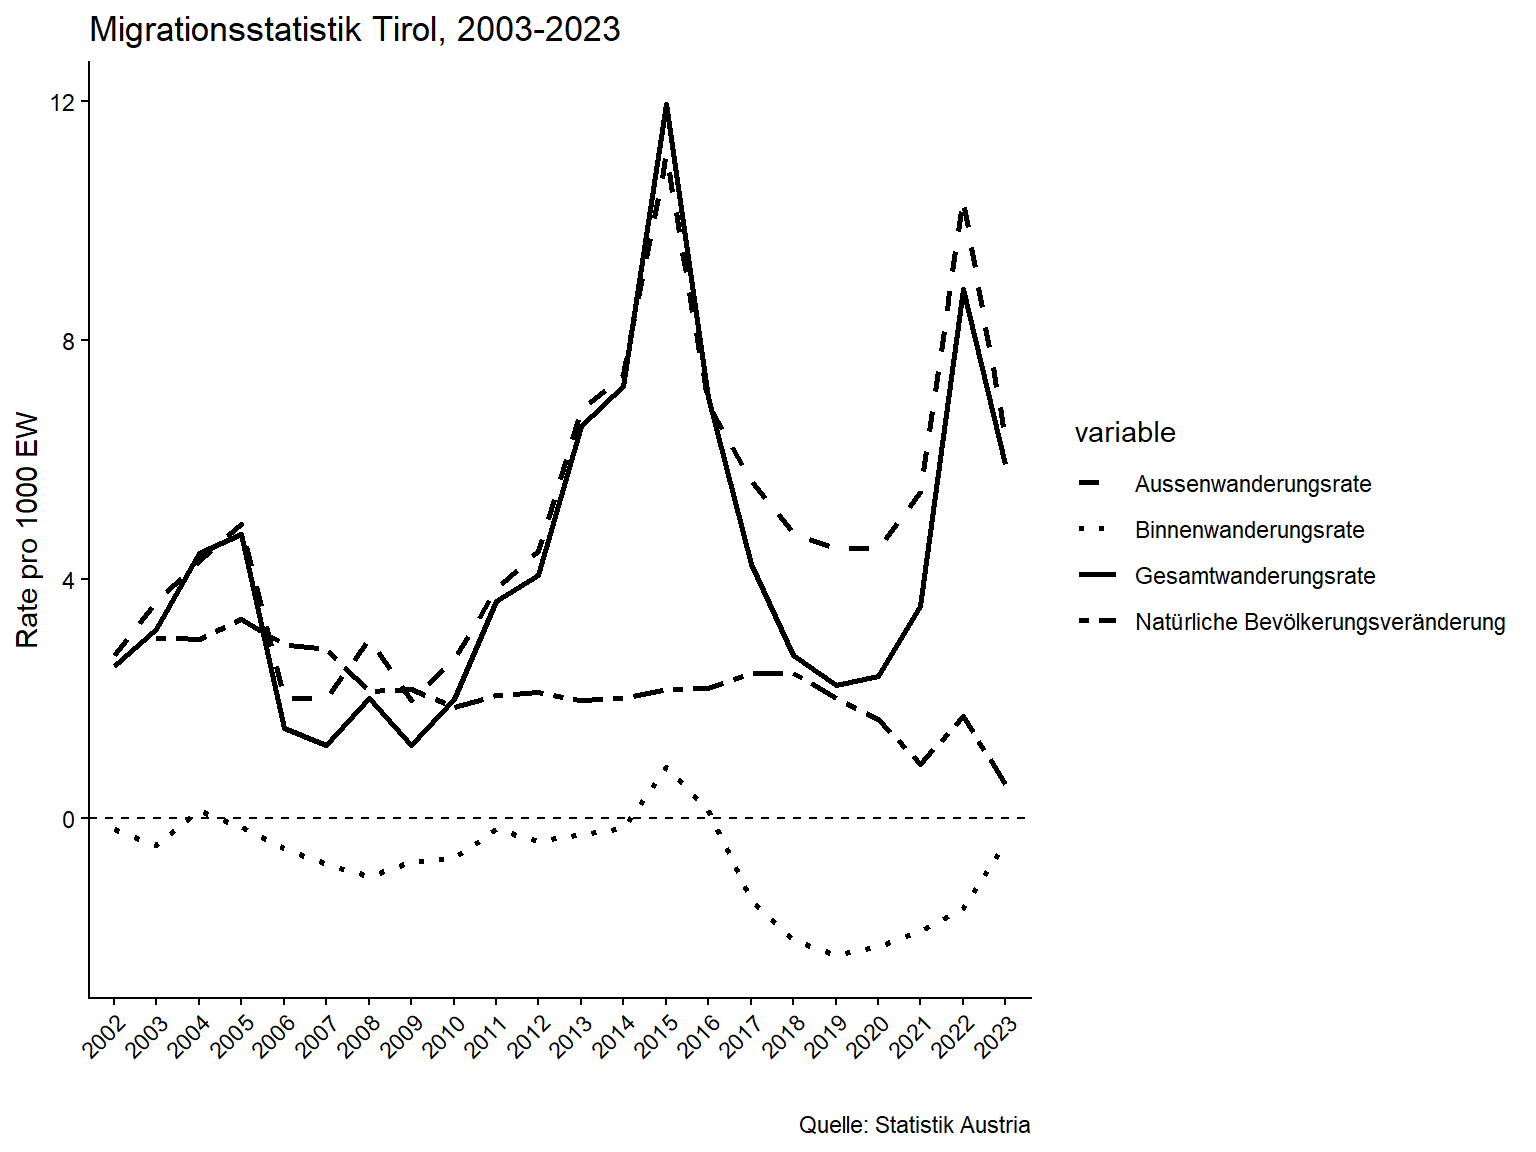
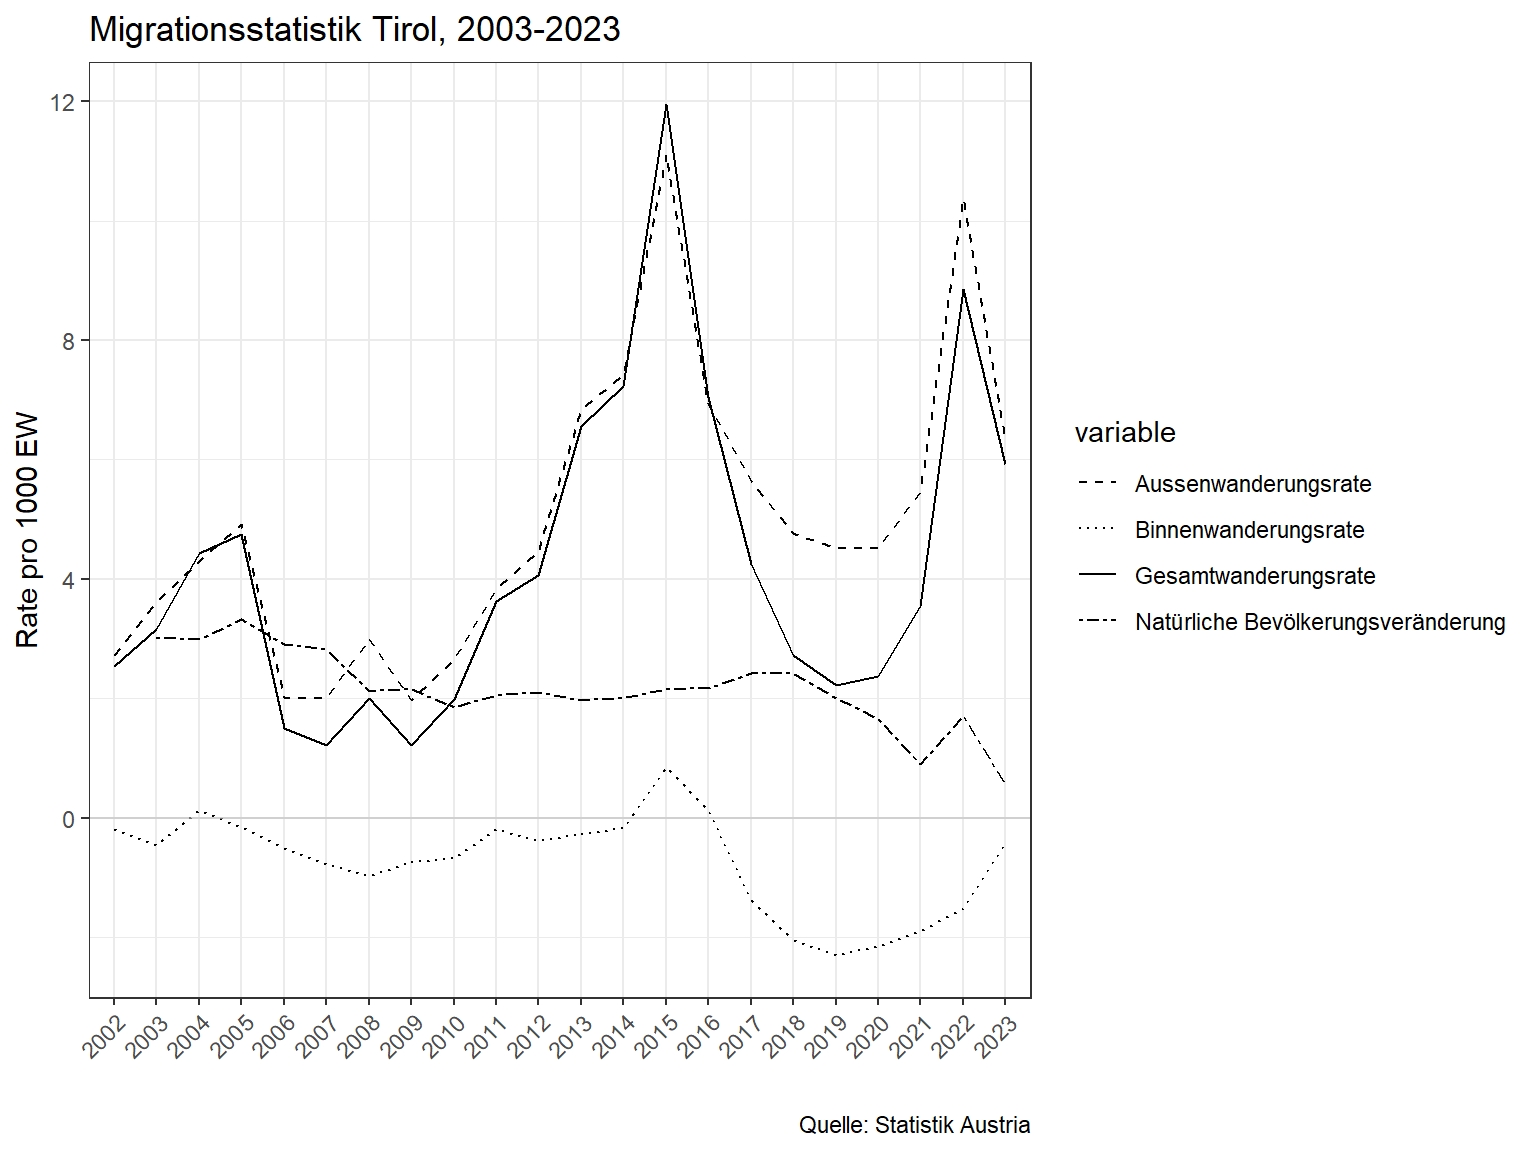
update

diff --git a/docs/02_data_manipulation.html b/docs/02_data_manipulation.html
@@ -658,8 +658,8 @@ window.Quarto = {
 </div>
 <div class="cell">
 <div class="code-copy-outer-scaffold"><div class="sourceCode cell-code" id="cb37"><pre class="sourceCode r code-with-copy"><code class="sourceCode r"><span id="cb37-1"><a href="#cb37-1" aria-hidden="true" tabindex="-1"></a><span class="fu">ggplot</span>(<span class="at">data =</span> rates_all <span class="sc">%&gt;%</span> <span class="fu">filter</span>(bld <span class="sc">==</span> <span class="st">"Tirol"</span>), <span class="fu">aes</span>(<span class="at">x =</span> <span class="fu">as.factor</span>(jahr), <span class="at">y =</span> value, <span class="at">linetype =</span> variable, <span class="at">group =</span> variable))<span class="sc">+</span></span>
-<span id="cb37-2"><a href="#cb37-2" aria-hidden="true" tabindex="-1"></a>  <span class="fu">geom_line</span>(<span class="at">linewidth =</span> <span class="dv">1</span>)<span class="sc">+</span></span>
-<span id="cb37-3"><a href="#cb37-3" aria-hidden="true" tabindex="-1"></a>  <span class="fu">theme_classic</span>()<span class="sc">+</span></span>
+<span id="cb37-2"><a href="#cb37-2" aria-hidden="true" tabindex="-1"></a>  <span class="fu">geom_line</span>()<span class="sc">+</span></span>
+<span id="cb37-3"><a href="#cb37-3" aria-hidden="true" tabindex="-1"></a>  <span class="fu">theme_bw</span>()<span class="sc">+</span></span>
 <span id="cb37-4"><a href="#cb37-4" aria-hidden="true" tabindex="-1"></a>  <span class="fu">scale_linetype_manual</span>(</span>
 <span id="cb37-5"><a href="#cb37-5" aria-hidden="true" tabindex="-1"></a>    <span class="at">values =</span> <span class="fu">c</span>(</span>
 <span id="cb37-6"><a href="#cb37-6" aria-hidden="true" tabindex="-1"></a>      <span class="st">"au_rate"</span> <span class="ot">=</span> <span class="st">"dashed"</span>,</span>
@@ -669,7 +669,7 @@ window.Quarto = {
 <span id="cb37-10"><a href="#cb37-10" aria-hidden="true" tabindex="-1"></a>    ),</span>
 <span id="cb37-11"><a href="#cb37-11" aria-hidden="true" tabindex="-1"></a>  <span class="at">labels =</span> <span class="fu">c</span>(<span class="st">"Aussenwanderungsrate"</span>, <span class="st">"Binnenwanderungsrate"</span>, <span class="st">"Gesamtwanderungsrate"</span>, <span class="st">"Natürliche Bevölkerungsveränderung"</span>)</span>
 <span id="cb37-12"><a href="#cb37-12" aria-hidden="true" tabindex="-1"></a>)<span class="sc">+</span></span>
-<span id="cb37-13"><a href="#cb37-13" aria-hidden="true" tabindex="-1"></a>  <span class="fu">geom_hline</span>(<span class="at">yintercept =</span> <span class="dv">0</span>, <span class="at">col =</span> <span class="st">"black"</span>, <span class="at">linetype =</span> <span class="st">"dashed"</span>)<span class="sc">+</span></span>
+<span id="cb37-13"><a href="#cb37-13" aria-hidden="true" tabindex="-1"></a>  <span class="fu">geom_hline</span>(<span class="at">yintercept =</span> <span class="dv">0</span>, <span class="at">col =</span> <span class="st">"grey"</span>, <span class="at">linetype =</span> <span class="st">"solid"</span>, <span class="at">alpha =</span> <span class="fl">0.6</span>)<span class="sc">+</span></span>
 <span id="cb37-14"><a href="#cb37-14" aria-hidden="true" tabindex="-1"></a>  <span class="fu">labs</span>(<span class="at">y =</span> <span class="st">"Rate pro 1000 EW"</span>, <span class="at">x =</span> <span class="st">" "</span>, <span class="at">col =</span> <span class="st">" "</span>, <span class="at">title =</span> <span class="st">"Migrationsstatistik Tirol, 2003-2023"</span>, <span class="at">caption =</span> <span class="st">"Quelle: Statistik Austria"</span>)<span class="sc">+</span></span>
 <span id="cb37-15"><a href="#cb37-15" aria-hidden="true" tabindex="-1"></a>    <span class="fu">theme</span>(<span class="at">axis.text.x =</span> <span class="fu">element_text</span>(<span class="at">angle =</span> <span class="dv">45</span>, <span class="at">hjust =</span> <span class="dv">1</span>))  </span></code></pre></div><button title="Copy to Clipboard" class="code-copy-button"><i class="bi"></i></button></div>
 <div class="cell-output-display">
@@ -735,7 +735,7 @@ window.Quarto = {
 <span id="cb40-11"><a href="#cb40-11" aria-hidden="true" tabindex="-1"></a>    <span class="at">labels =</span> <span class="fu">c</span>(<span class="st">"Aussenwanderungsrate"</span>, <span class="st">"Binnenwanderungsrate"</span>, <span class="st">"Natürliche Bevölkerungsveränderung"</span>)</span>
 <span id="cb40-12"><a href="#cb40-12" aria-hidden="true" tabindex="-1"></a>  )<span class="sc">+</span></span>
 <span id="cb40-13"><a href="#cb40-13" aria-hidden="true" tabindex="-1"></a>  <span class="fu">facet_wrap</span>(bld<span class="sc">~</span>.)<span class="sc">+</span></span>
-<span id="cb40-14"><a href="#cb40-14" aria-hidden="true" tabindex="-1"></a>  <span class="fu">geom_hline</span>(<span class="at">yintercept =</span> <span class="dv">0</span>, <span class="at">col =</span> <span class="st">"black"</span>, <span class="at">linetype =</span> <span class="st">"dashed"</span>)<span class="sc">+</span></span>
+<span id="cb40-14"><a href="#cb40-14" aria-hidden="true" tabindex="-1"></a>  <span class="fu">geom_hline</span>(<span class="at">yintercept =</span> <span class="dv">0</span>, <span class="at">col =</span> <span class="st">"grey"</span>, <span class="at">linetype =</span> <span class="st">"solid"</span>)<span class="sc">+</span></span>
 <span id="cb40-15"><a href="#cb40-15" aria-hidden="true" tabindex="-1"></a>  <span class="fu">labs</span>(<span class="at">y =</span> <span class="st">"Rate pro 1000 EW"</span>, <span class="at">x =</span> <span class="st">" "</span>, <span class="at">color =</span> <span class="st">" "</span>,</span>
 <span id="cb40-16"><a href="#cb40-16" aria-hidden="true" tabindex="-1"></a>       <span class="at">title =</span> <span class="st">"Komponenten der Bevölkerungsentwicklung Österreichischer Bundesländer, 2002-2023"</span>,</span>
 <span id="cb40-17"><a href="#cb40-17" aria-hidden="true" tabindex="-1"></a>       <span class="at">caption =</span> <span class="st">"Quelle: Statistik Austria;</span><span class="sc">\n</span><span class="st"> Anm: Natürliche Bevölkerungsveränderung ohne statistische Korrektur"</span>)<span class="sc">+</span></span>
